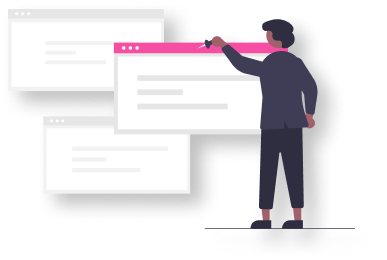
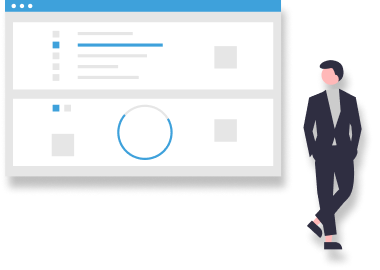
changed login/register page, finished responsive design #2

diff --git a/template/css/app.css b/template/css/app.css
@@ -1,1 +1,1 @@
-*{margin:0;padding:0;box-sizing:border-box;font-family:"Montserrat", sans-serif}@media only screen and (max-width: 600px){body{display:flex;flex-flow:row wrap}.screen-leva{background-image:url("../../assets/mobile-background.png");background-position:center;background-repeat:no-repeat;background-size:cover;height:50%;display:flex;flex-flow:row wrap;justify-content:center;align-items:center;transition:all 0.75s ease-in-out}.screen-leva .logo img{margin:-1rem}.screen-leva .logo-header{color:white;text-align:center;font-size:3vh}.screen-leva .desktop-content{display:none}.mobile-clouds{position:relative;bottom:3rem;transition:all 0.75s ease-in-out}.mobile-clouds img{width:100%}.registerCloud{transform:rotate(180deg);bottom:-5%}.switchRegistrationColor{transform:translate3d(0, 101%, 0)}.screen-prava{display:flex;flex-flow:column wrap;padding:1rem;position:relative;top:-3rem;transition:all 0.75s ease-in-out}.screen-prava .header{font-size:3vh;font-weight:bold}.screen-prava .registerHeader{display:none}.screen-prava .loginHeader{display:block}.screen-prava .loginForm{display:inline-block}.screen-prava .registerForm{display:none}.screen-prava .register{cursor:pointer;text-decoration:underline}.screen-prava form{display:flex;flex-flow:row wrap;justify-content:center;align-items:center}.screen-prava form .input{margin-top:2rem;position:relative}.screen-prava form .input label{margin:0;padding:0;color:lightgray;font-size:1rem;position:absolute;bottom:1rem;left:0.5rem;transform:translate3d(0, 0, 0);transition:all 0.2s ease-in-out;pointer-events:none}.screen-prava form .input .offset{transform:translate3d(0, -30px, 0);font-size:0.5rem}.screen-prava form input[type=text],.screen-prava form input[type=password]{width:100%;font-size:1.5rem;outline:none;border:none}.screen-prava form .rectangle{width:100%}.screen-prava form input[type=submit]{margin:2rem;width:80%;font-size:1.25rem;padding:1rem;outline:none;border:none;color:white;background-image:linear-gradient(180deg, #F54EA2 0%, #FF7676 100%);border-radius:30px}.screen-prava form input[type=submit]:hover{opacity:0.9;cursor:pointer}.screen-prava form input[type=submit]:active{opacity:0.8}.screen-prava .footer{text-align:center;position:relative;top:-1rem}.screen-prava .footer a{color:black}.switchRegistrationWhite{transform:translate3d(0, -90%, 0);background-color:white}.switchRegistrationWhite .loginHeader{display:none}.switchRegistrationWhite .registerHeader{display:block}.switchRegistrationWhite .loginForm{display:none}.switchRegistrationWhite .registerForm{display:inline-block}.switchRegistrationWhite ::placeholder{color:lightgray;font-size:1rem;position:relative;bottom:0.5rem}}@media only screen and (min-width: 600px){body{background-image:url("../../assets/images/desktop-background.png");background-position:center;background-repeat:no-repeat;background-size:cover;display:flex;flex-flow:row wrap;justify-content:center;align-items:center}main{box-shadow:10px 10px 50px 11px rgba(0,0,0,0.25);width:70%;min-height:80%;display:flex;flex-flow:row wrap;border-radius:30px}.screen-leva{border-top-left-radius:30px;border-bottom-left-radius:30px;flex:1 0 50%;background-image:url("../../assets/images/leva-strana-bg.png");background-position:center;background-repeat:no-repeat;background-size:cover;transition:all 0.75s ease-in-out}.screen-leva .logo{display:flex;align-items:center}.screen-leva .logo img{width:7.5rem;margin:1rem}.screen-leva .logo .logo-header{color:white;font-size:3rem}.screen-leva .desktop-content{margin:2rem;display:flex;flex-flow:column wrap;justify-content:center;align-items:center}.screen-leva .desktop-content p{color:white;width:20rem;margin:2rem}.switchRegistrationColor{transform:translate3d(82%, 0, 0);border-top-left-radius:0px;border-bottom-left-radius:0px;border-top-right-radius:30px;border-bottom-right-radius:30px}.screen-prava{transform:translate3d(0, 0, 0);flex:1 0 40%;background-color:white;border-top-right-radius:30px;border-bottom-right-radius:30px;transition:all 0.75s ease-in-out}.screen-prava .registerHeader{display:none}.screen-prava .loginHeader{display:block}.screen-prava .header{font-size:3rem;margin:2rem;font-weight:bold}.screen-prava .loginForm{display:inline-block}.screen-prava .registerForm{display:none}.screen-prava form{display:flex;flex-flow:column wrap;justify-content:center;align-items:center;width:90%;margin:1rem}.screen-prava .input{display:flex;flex-flow:column wrap;width:90%;margin:1rem;position:relative}.screen-prava .input label{margin:0;padding:0;color:lightgray;font-size:1rem;position:absolute;bottom:1rem;left:0.5rem;transform:translate3d(0, 0, 0);transition:all 0.2s ease-in-out;pointer-events:none}.screen-prava .input .offset{transform:translate3d(0, -30px, 0);font-size:0.5rem}.screen-prava input[type=text],.screen-prava input[type=password]{font-size:1.5rem;padding:0.5rem;outline:none;border:none}.screen-prava input[type=submit]{margin:2rem;padding:1rem;width:80%;font-size:1.5rem;outline:none;border:none;border-radius:30px;color:white;transition:all 0.2s;background-image:linear-gradient(180deg, #F54EA2 0%, #FF7676 100%)}.screen-prava input[type=submit]:hover{opacity:0.9;cursor:pointer}.screen-prava input[type=submit]:active{opacity:0.8}.screen-prava .footer{text-align:center}.screen-prava .footer a{color:black}.screen-prava .footer .register{cursor:pointer;text-decoration:underline}.switchRegistrationWhite{transform:translate3d(-122%, 0, 0);border-top-left-radius:30px;border-bottom-left-radius:30px;border-top-right-radius:0px;border-bottom-right-radius:0px}.switchRegistrationWhite .loginHeader{display:none}.switchRegistrationWhite .registerHeader{display:block}.switchRegistrationWhite .loginForm{display:none}.switchRegistrationWhite .registerForm{display:inline-block}.mobile-clouds{display:none}}
+*{margin:0;padding:0;box-sizing:border-box;font-family:"Montserrat", sans-serif}@media only screen and (max-width: 600px){body{display:flex;flex-flow:row wrap}.screen-leva{background-image:url("../assets/mobile-background.png");background-position:center;background-repeat:no-repeat;background-size:cover;height:50%;display:flex;flex-flow:row wrap;justify-content:center;align-items:center;transition:all 0.75s ease-in-out}.screen-leva .logo img{width:10rem}.screen-leva .logo-header{color:white;text-align:center;font-size:3vh}.screen-leva .desktop-content{display:none}.mobile-clouds{position:relative;bottom:3rem;transition:all 0.75s ease-in-out}.mobile-clouds img{width:100%}.registerCloud{transform:rotate(180deg);bottom:-5%}.switchRegistrationColor{transform:translate3d(0, 101%, 0)}.screen-prava{display:flex;flex-flow:column wrap;padding:1rem;position:relative;top:-3rem;transition:all 0.75s ease-in-out}.screen-prava .header{font-size:3vh;font-weight:bold}.screen-prava .registerHeader{display:none}.screen-prava .loginHeader{display:block}.screen-prava .loginForm{display:inline-block}.screen-prava .registerForm{display:none}.screen-prava .register{cursor:pointer;text-decoration:underline}.screen-prava form{display:flex;flex-flow:row wrap;justify-content:center;align-items:center}.screen-prava form .input{margin-top:2rem;position:relative}.screen-prava form .input label{margin:0;padding:0;color:lightgray;font-size:1rem;position:absolute;bottom:1rem;left:0.5rem;transform:translate3d(0, 0, 0);transition:all 0.2s ease-in-out;pointer-events:none}.screen-prava form .input .offset{transform:translate3d(0, -30px, 0);font-size:0.5rem}.screen-prava form input[type=text],.screen-prava form input[type=password]{width:100%;font-size:1.5rem;outline:none;border:none}.screen-prava form .rectangle{width:100%}.screen-prava form input[type=submit]{margin:2rem;width:80%;font-size:1.25rem;padding:1rem;outline:none;border:none;color:white;background-image:linear-gradient(180deg, #3EA1DB 0%, #5D34EC 100%);border-radius:30px}.screen-prava form input[type=submit]:hover{opacity:0.9;cursor:pointer}.screen-prava form input[type=submit]:active{opacity:0.8}.screen-prava .footer{text-align:center;position:relative;top:-1rem}.screen-prava .footer a{color:black}.switchRegistrationWhite{transform:translate3d(0, -90%, 0);background-color:white}.switchRegistrationWhite .loginHeader{display:none}.switchRegistrationWhite .registerHeader{display:block}.switchRegistrationWhite .loginForm{display:none}.switchRegistrationWhite .registerForm{display:inline-block}.switchRegistrationWhite ::placeholder{color:lightgray;font-size:1rem;position:relative;bottom:0.5rem}}@media only screen and (min-width: 600px){body{background-image:url("../assets/desktop-background.png");background-position:center;background-repeat:no-repeat;background-size:cover;display:flex;flex-flow:row wrap;justify-content:center;align-items:center}main{display:flex;justify-content:center;flex-flow:row wrap;flex:0 0 70%}.screen-leva{box-shadow:10px 10px 50px 11px rgba(0,0,0,0.25);border-radius:30px;flex:1 1 60%;background-image:url("../assets/leva-strana-bg.png");background-position:center;background-repeat:no-repeat;background-size:cover;transition:all 0.75s ease-in-out}.screen-leva .logo{display:flex;align-items:center}.screen-leva .logo img{width:6rem;margin:2rem;text-shadow:10px 10px}.screen-leva .logo .logo-header{color:white;font-size:3rem}.screen-leva .desktop-content{margin:7rem;display:flex;flex-flow:row wrap;justify-content:center;align-items:center}.screen-leva .desktop-content p{color:white;width:20rem;margin:2rem}.switchRegistrationColor{transform:translate3d(70%, 0, 0)}.screen-prava{border-radius:30px;box-shadow:10px 10px 50px 11px rgba(0,0,0,0.25);transform:translate3d(0, 0, 0);flex:1 1 40%;background-color:white;border-top-right-radius:30px;border-bottom-right-radius:30px;transition:all 0.75s ease-in-out}.screen-prava .registerHeader{display:none}.screen-prava .loginHeader{display:block}.screen-prava .header{font-size:3rem;margin:2rem}.screen-prava .loginForm{display:inline-block}.screen-prava .registerForm{display:none}.screen-prava form{display:flex;flex-flow:column wrap;justify-content:center;align-items:center;width:90%;margin:1rem}.screen-prava .input{display:flex;flex-flow:column wrap;width:90%;margin:1rem;position:relative}.screen-prava .input label{margin:0;padding:0;color:lightgray;font-size:1rem;position:absolute;bottom:1rem;left:0.5rem;transform:translate3d(0, 0, 0);transition:all 0.2s ease-in-out;pointer-events:none}.screen-prava .input .offset{transform:translate3d(0, -30px, 0);font-size:0.5rem}.screen-prava input[type=text],.screen-prava input[type=password]{font-size:1.5rem;padding:0.5rem;outline:none;border:none}.screen-prava input[type=submit]{margin:2rem;padding:1rem;width:80%;font-size:1.5rem;outline:none;border:none;border-radius:30px;color:white;transition:all 0.2s;background-image:linear-gradient(180deg, #3EA1DB 0%, #5D34EC 100%)}.screen-prava input[type=submit]:hover{opacity:0.9;cursor:pointer}.screen-prava input[type=submit]:active{opacity:0.8}.screen-prava .footer{text-align:center}.screen-prava .footer a{color:black}.screen-prava .footer .register{cursor:pointer;text-decoration:underline}.switchRegistrationWhite{transform:translate3d(-145%, 0, 0)}.switchRegistrationWhite .loginHeader{display:none}.switchRegistrationWhite .registerHeader{display:block}.switchRegistrationWhite .loginForm{display:none}.switchRegistrationWhite .registerForm{display:inline-block}.mobile-clouds{display:none}}

diff --git a/template/scss/pages/login_register.scss b/template/scss/pages/login_register.scss
@@ -1,6 +1,6 @@
-$bg-background-mobile: "../../assets/mobile-background.png";
-$bg-background-desktop: "../../assets/images/desktop-background.png";
-$bg-screen-leva: "../../assets/images/leva-strana-bg.png";
+$bg-background-mobile: "../assets/mobile-background.png";
+$bg-background-desktop: "../assets/desktop-background.png";
+$bg-screen-leva: "../assets/leva-strana-bg.png";
 
 * {
     margin: 0;
@@ -28,7 +28,7 @@ $bg-screen-leva: "../../assets/images/leva-strana-bg.png";
        transition: all 0.75s ease-in-out;
 
        .logo img{
-          margin: -1rem; 
+         width: 10rem;
        }
 
        .logo-header {
@@ -134,7 +134,7 @@ $bg-screen-leva: "../../assets/images/leva-strana-bg.png";
                 outline: none;
                 border: none;
                 color: white;
-                background-image: linear-gradient(180deg, #F54EA2 0%, #FF7676 100%);
+                background-image: linear-gradient(180deg, #3EA1DB 0%, #5D34EC 100%);
                 border-radius: 30px;
                 &:hover {
                     opacity: 0.9;
@@ -185,26 +185,26 @@ $bg-screen-leva: "../../assets/images/leva-strana-bg.png";
     body {
         background-image: url($bg-background-desktop);
         background-position: center;
-        background-repeat: no-repeat;
-        background-size: cover;
+        background-repeat:no-repeat;
+        background-size:cover;
         display: flex;
         flex-flow: row wrap;
         justify-content: center;
         align-items: center;
     }
     main {
-        box-shadow: 10px 10px 50px 11px rgba(0, 0, 0, 0.25);
-        width: 70%;
-        min-height: 80%;
         display: flex;
+        justify-content: center;
         flex-flow: row wrap;
-        border-radius: 30px;
+        flex: 0 0 70%;
     }
 
     .screen-leva {
-        border-top-left-radius: 30px;
-        border-bottom-left-radius: 30px;
-        flex: 1 0 50%;
+        box-shadow: 10px 10px 50px 11px rgba(0, 0, 0, 0.25);
+        //border-top-left-radius: 30px;
+        //border-bottom-left-radius: 30px;
+        border-radius: 30px;
+        flex: 1 1 60%;
         background-image: url($bg-screen-leva);
         background-position: center;
         background-repeat: no-repeat;
@@ -216,8 +216,9 @@ $bg-screen-leva: "../../assets/images/leva-strana-bg.png";
            
 
             img {
-                width: 7.5rem;
-                margin: 1rem;
+                width: 6rem;
+                margin: 2rem;
+                text-shadow: 10px 10px;
             }
             .logo-header {
                 color: white;
@@ -226,9 +227,9 @@ $bg-screen-leva: "../../assets/images/leva-strana-bg.png";
         }
 
         .desktop-content {
-            margin: 2rem;
+            margin: 7rem;
             display: flex;
-            flex-flow: column wrap;
+            flex-flow: row wrap;
             justify-content: center;
             align-items: center;
             p {
@@ -240,16 +241,18 @@ $bg-screen-leva: "../../assets/images/leva-strana-bg.png";
     }
 
     .switchRegistrationColor {
-       transform: translate3d(82%, 0, 0);
-       border-top-left-radius: 0px;
-       border-bottom-left-radius: 0px;
-       border-top-right-radius: 30px;
-       border-bottom-right-radius: 30px;
+       transform: translate3d(70%, 0, 0);
+      // border-top-left-radius: 0px;
+      // border-bottom-left-radius: 0px;
+     // border-top-right-radius: 30px;
+     //  border-bottom-right-radius: 30px;
     }
 
     .screen-prava {
+        border-radius: 30px;
+        box-shadow: 10px 10px 50px 11px rgba(0, 0, 0, 0.25);
         transform: translate3d(0,0,0);
-        flex: 1 0 40%;
+        flex: 1 1 40%;
         background-color: white;
         border-top-right-radius: 30px;
         border-bottom-right-radius: 30px;
@@ -263,7 +266,6 @@ $bg-screen-leva: "../../assets/images/leva-strana-bg.png";
         .header {
             font-size: 3rem;
             margin: 2rem;
-            font-weight: bold;
         }
         .loginForm {
             display: inline-block;
@@ -320,7 +322,7 @@ $bg-screen-leva: "../../assets/images/leva-strana-bg.png";
             border-radius: 30px;
             color: white;
             transition: all 0.2s;
-            background-image: linear-gradient(180deg, #F54EA2 0%, #FF7676 100%);
+            background-image: linear-gradient(180deg, #3EA1DB 0%, #5D34EC 100%);
             &:hover {
                 opacity: 0.9;
                 cursor: pointer;
@@ -344,11 +346,11 @@ $bg-screen-leva: "../../assets/images/leva-strana-bg.png";
     }
 
     .switchRegistrationWhite {
-        transform: translate3d(-122%,0,0);
-        border-top-left-radius: 30px;
-        border-bottom-left-radius: 30px;
-        border-top-right-radius: 0px;
-        border-bottom-right-radius: 0px;
+        transform: translate3d(-145%,0,0);
+       // border-top-left-radius: 30px;
+      //  border-bottom-left-radius: 30px;
+      //  border-top-right-radius: 0px;
+      //  border-bottom-right-radius: 0px;
         .loginHeader {
             display: none;
         }

diff --git a/template/index.html b/template/index.html
@@ -2,26 +2,27 @@
 <head>
     <meta charset="UTF-8">
     <meta name="viewport" content="width=device-width, initial-scale=1.0">
-    <link rel="stylesheet" href="style.css">
+    <link rel="stylesheet" href="css/app.css">
+    <link rel="icon" href="assets/Logo.png">
     <link rel="preconnect" href="https://fonts.gstatic.com">
 <link href="https://fonts.googleapis.com/css2?family=Montserrat&display=swap" rel="stylesheet">
-<script src="script.js" defer></script>
-    <title>Login.me</title>
+<script src="js/dist/script.js" defer></script>
+    <title>ReactTrader</title>
 </head>
 <body>
      <main>
          <section class="screen-leva">
              <div class="logo">
-                 <img src="./assets/images/Logo.png" alt="logo Login.me" class="img-logo">
-                 <p class="logo-header">Login.me</p>
+                 <img src="./assets/Logo.png" alt="logo ReactTrader" class="img-logo">
+                 <p class="logo-header">ReactTrader</p>
              </div>
              <div class="desktop-content">
-                 <img src="./assets/images/undraw.png" alt="undraw image" class="undraw">
-                 <p>Jednoduchá administrace registrovaných uživatelů</p>
+                 <img src="./assets/undraw.png" alt="undraw image" class="undraw">
+                 <p>Včechny Vaše obchody na jednom místě. Tohle je produktivita.</p>
              </div>
          </section>
          <section class="mobile-clouds">
-             <img src="./assets/images/cloud-divider.png" alt="clouds divider">
+             <img src="./assets/cloud-divider.png" alt="clouds divider">
          </section>
          <section class="screen-prava">
              <p class="header loginHeader">Přihlášení</p>
@@ -30,12 +31,12 @@
                      <div class="input">
                         <input type="text" name="email" class="inputEmail inputClass">
                         <label for="email" class="labelEmail label">E-mailová adresa</label>
-                        <img src="./assets/images/rectangle.png" class="rectangle">
+                        <img src="./assets/rectangle.png" class="rectangle">
                      </div>
                       <div class="input">
                         <input type="password" name="heslo" class="inputHeslo inputClass">
                         <label for="heslo" class="labelHeslo label">Heslo</label>
-                        <img src="./assets/images/rectangle.png" class="rectangle">
+                        <img src="./assets/rectangle.png" class="rectangle">
                       </div>
                       <input type="submit" value="Přihlásit se">
                  </form>
@@ -43,22 +44,22 @@
                     <div class="input">
                        <input type="text" name="jmeno" class="inputJmeno inputClass">
                        <label for="jmeno" class="labelJmeno label">Jméno</label>
-                       <img src="./assets/images/rectangle.png" class="rectangle">
+                       <img src="./assets/rectangle.png" class="rectangle">
                     </div>
                     <div class="input">
                         <input type="text" name="email" class="inputEmail inputClass">
                         <label for="email" class="labelEmail label">E-mailová adresa</label>
-                        <img src="./assets/images/rectangle.png" class="rectangle">
+                        <img src="./assets/rectangle.png" class="rectangle">
                      </div>
                      <div class="input">
                        <input type="password" name="heslo" class="inputHeslo inputClass">
                        <label for="heslo" class="labelHeslo label">Heslo</label>
-                       <img src="./assets/images/rectangle.png" class="rectangle">
+                       <img src="./assets/rectangle.png" class="rectangle">
                      </div>
                      <div class="input">
                         <input type="password" name="hesloZnovu" class="inputHesloZnovu inputClass">
                         <label for="hesloZnovu" class="labelHesloZnovu label">Heslo znovu</label>
-                        <img src="./assets/images/rectangle.png" class="rectangle">
+                        <img src="./assets/rectangle.png" class="rectangle">
                       </div>
                      <input type="submit" value="Zaregistrovat se">
                 </form>
